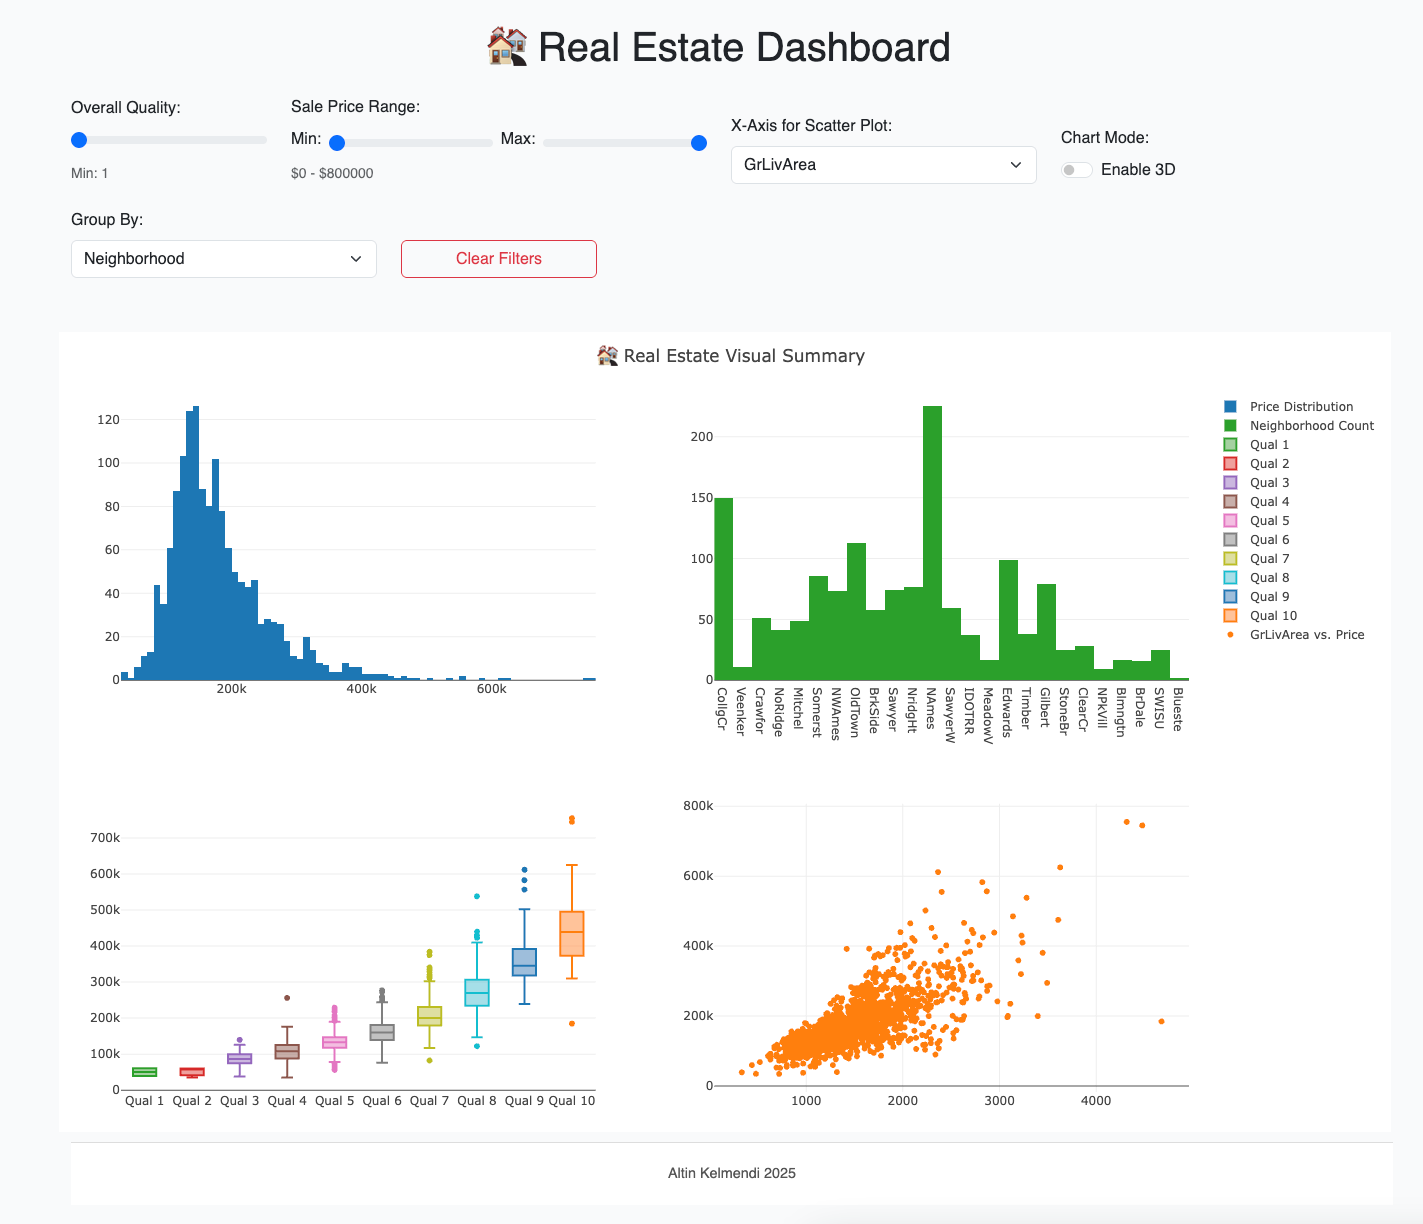
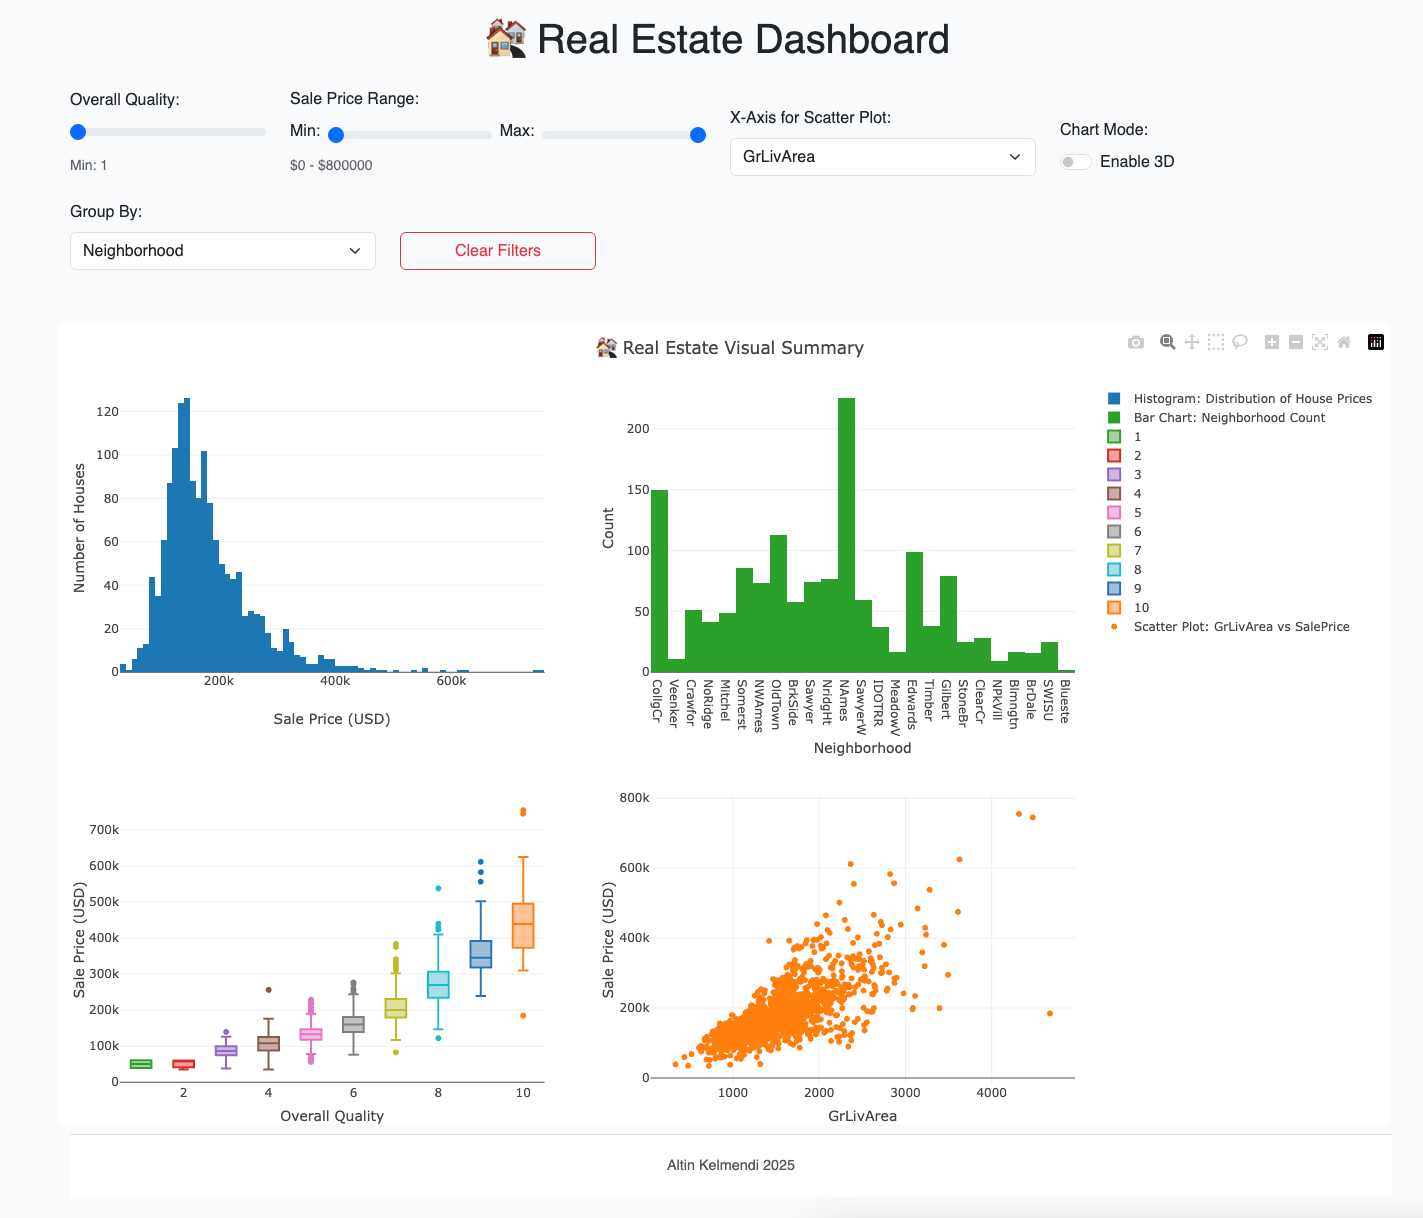
add label desc

diff --git a/public/main.js b/public/main.js
@@ -71,16 +71,20 @@ document.addEventListener("DOMContentLoaded", () => {
             grid: {rows: 2, columns: 2, pattern: "independent"},
             height: 800,
             margin: {t: 60, l: 50, r: 20, b: 40},
-            title: "🏘 Real Estate Visual Summary"
+            title: "🏘 Real Estate Visual Summary",
+            annotations: []
         };
 
         const hist = {
             x: filtered.map(d => d.SalePrice),
             type: "histogram",
             marker: {color: "#1f77b4"},
-            name: "Price Distribution",
+            name: "Histogram: Distribution of House Prices",
             xaxis: "x1", yaxis: "y1"
         };
+
+        layout.xaxis1 = {title: "Sale Price (USD)"};
+        layout.yaxis1 = {title: "Number of Houses"};
 
         const groupCounts = {};
         filtered.forEach(d => {
@@ -93,18 +97,24 @@ document.addEventListener("DOMContentLoaded", () => {
             y: Object.values(groupCounts),
             type: "bar",
             marker: {color: "#2ca02c"},
-            name: `${groupBy} Count`,
+            name: `Bar Chart: ${groupBy} Count`,
             xaxis: "x2", yaxis: "y2"
         };
+
+        layout.xaxis2 = {title: groupBy};
+        layout.yaxis2 = {title: "Count"};
 
         const qualities = [...new Set(filtered.map(d => d.OverallQual))].sort((a, b) => a - b);
         const boxPlots = qualities.map(q => ({
             y: filtered.filter(d => d.OverallQual === q).map(d => d.SalePrice),
             type: "box",
-            name: `Qual ${q}`,
+            name: `${q}`,
             boxpoints: "outliers",
             xaxis: "x3", yaxis: "y3"
         }));
+
+        layout.xaxis3 = {title: "Overall Quality"};
+        layout.yaxis3 = {title: "Sale Price (USD)"};
 
         const scatter2D = {
             x: filtered.map(d => d[xAxis]),
@@ -112,9 +122,12 @@ document.addEventListener("DOMContentLoaded", () => {
             mode: "markers",
             type: "scatter",
             marker: {size: 6, color: "#ff7f0e"},
-            name: `${xAxis} vs. Price`,
+            name: `Scatter Plot: ${xAxis} vs SalePrice`,
             xaxis: "x4", yaxis: "y4"
         };
+
+        layout.xaxis4 = {title: xAxis};
+        layout.yaxis4 = {title: "Sale Price (USD)"};
 
         if (use3D) {
             const salePrice = filtered.map(d => d.SalePrice);
@@ -131,7 +144,7 @@ document.addEventListener("DOMContentLoaded", () => {
                     colorscale: "Portland",
                     opacity: 0.7,
                 },
-                name: "GrLivArea x 1stFlrSF x SalePrice"
+                name: "3D Scatter: GrLivArea x 1stFlrSF x SalePrice"
             };
 
             const neighborhoods = Object.keys(groupCounts);
@@ -152,7 +165,7 @@ document.addEventListener("DOMContentLoaded", () => {
                     colorscale: "Viridis",
                     symbol: "diamond",
                 },
-                name: "Neighborhood x Count x AvgQual"
+                name: "3D Bar: Neighborhood Count x AvgQual"
             };
 
             const box3d = qualities.map(q => ({
@@ -166,7 +179,7 @@ document.addEventListener("DOMContentLoaded", () => {
                     color: "#9467bd",
                     opacity: 0.5,
                 },
-                name: `Qual ${q}`
+                name: `3D Box: Qual ${q}`
             }));
 
             let chartData = [];
